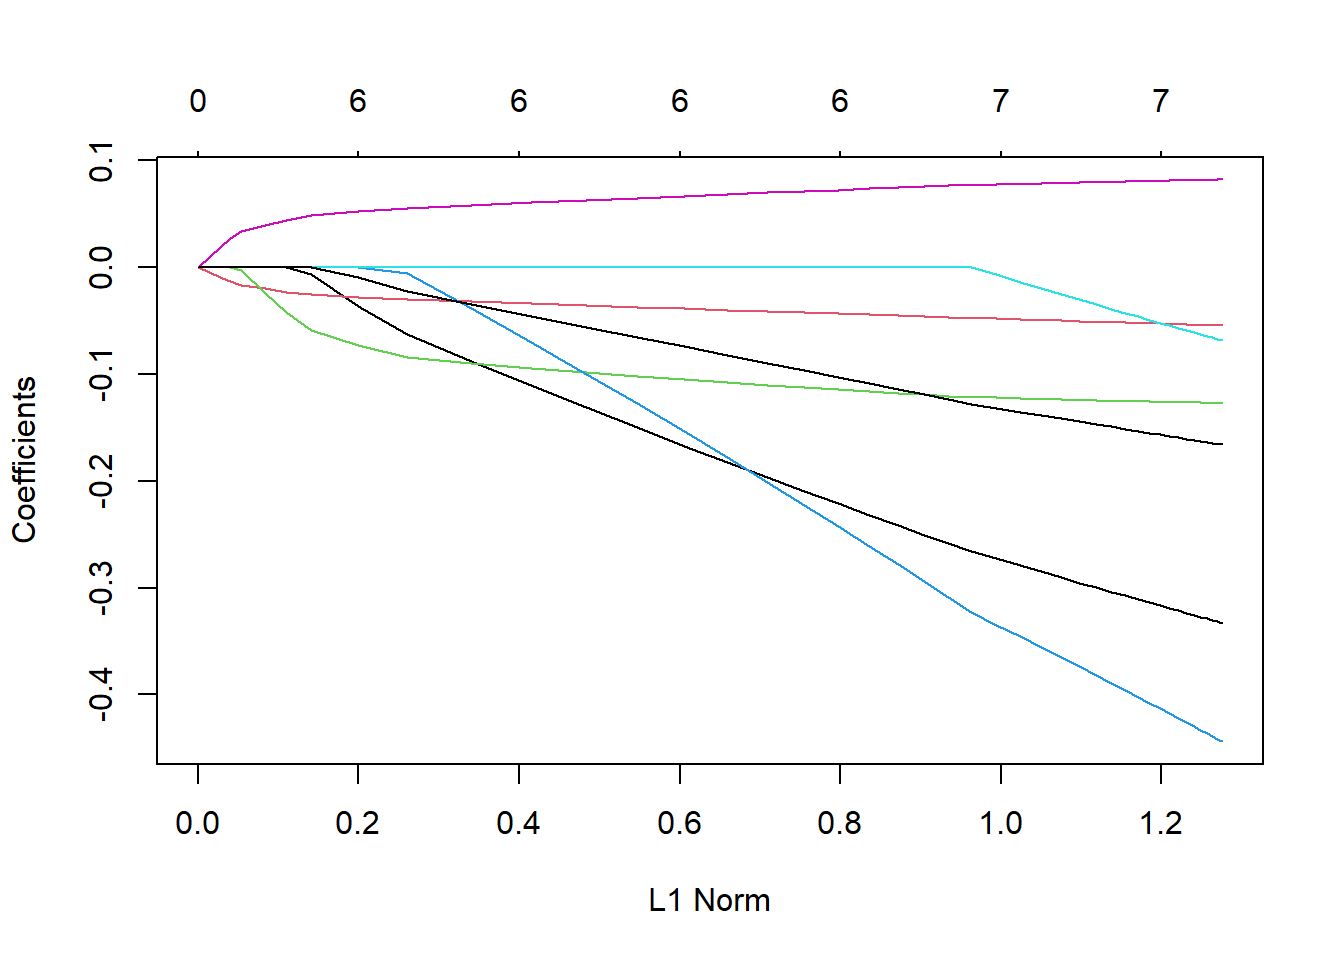
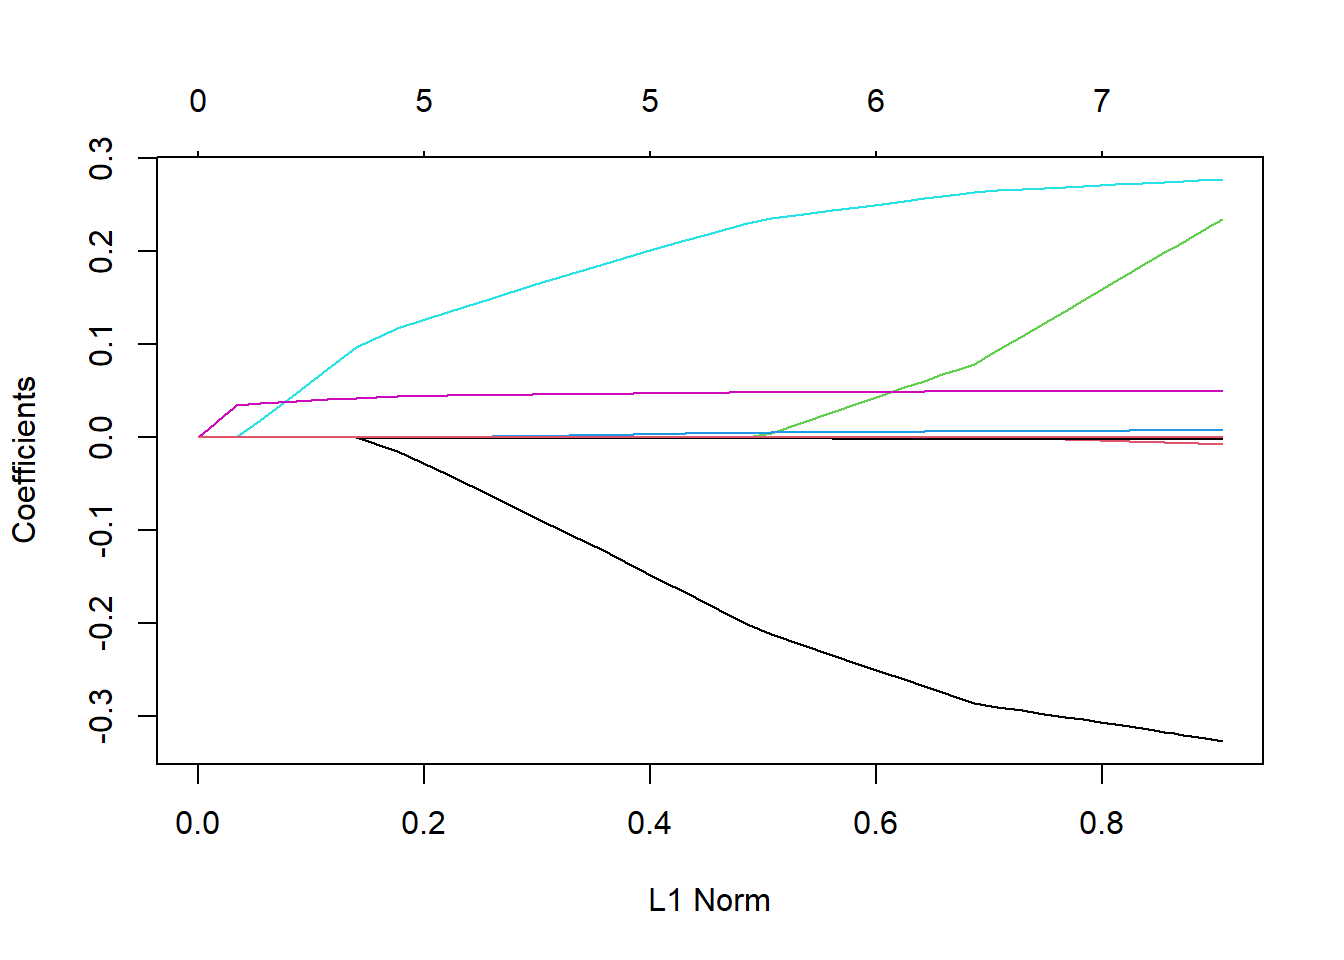
Extra revisions

diff --git a/docs/extras.html b/docs/extras.html
@@ -187,43 +187,46 @@ code span.wa { color: #60a0b0; font-weight: bold; font-style: italic; } /* Warni
 <div class="sourceCode" id="cb1"><pre class="sourceCode r"><code class="sourceCode r"><span id="cb1-1"><a href="extras.html#cb1-1" aria-hidden="true" tabindex="-1"></a><span class="fu">library</span>(glmnet)</span></code></pre></div>
 <pre><code>## Loading required package: Matrix</code></pre>
 <pre><code>## Loaded glmnet 4.1-4</code></pre>
-<div class="sourceCode" id="cb4"><pre class="sourceCode r"><code class="sourceCode r"><span id="cb4-1"><a href="extras.html#cb4-1" aria-hidden="true" tabindex="-1"></a>x<span class="ot">=</span>recid <span class="sc">%&gt;%</span> <span class="fu">select</span>(fin,age,wexp,mar,paro,prio,educ)</span>
-<span id="cb4-2"><a href="extras.html#cb4-2" aria-hidden="true" tabindex="-1"></a>y<span class="ot">=</span><span class="fu">Surv</span>(<span class="at">time=</span>recid<span class="sc">$</span>week,<span class="at">event=</span>recid<span class="sc">$</span>arrest)</span>
+<div class="sourceCode" id="cb4"><pre class="sourceCode r"><code class="sourceCode r"><span id="cb4-1"><a href="extras.html#cb4-1" aria-hidden="true" tabindex="-1"></a>x<span class="ot">=</span>GBSG2 <span class="sc">%&gt;%</span> <span class="fu">select</span>(horTh,age,menostat,tsize, tgrade, pnodes, progrec, estrec)</span>
+<span id="cb4-2"><a href="extras.html#cb4-2" aria-hidden="true" tabindex="-1"></a>y<span class="ot">=</span><span class="fu">Surv</span>(<span class="at">time=</span>GBSG2<span class="sc">$</span>time,<span class="at">event=</span>GBSG2<span class="sc">$</span>cens)</span>
 <span id="cb4-3"><a href="extras.html#cb4-3" aria-hidden="true" tabindex="-1"></a>model1<span class="ot">&lt;-</span><span class="fu">glmnet</span>(x,y,<span class="at">family=</span><span class="st">&quot;cox&quot;</span>)</span>
 <span id="cb4-4"><a href="extras.html#cb4-4" aria-hidden="true" tabindex="-1"></a><span class="fu">plot</span>(model1)</span></code></pre></div>
 <p><img src="bookdownproj_files/figure-html/unnamed-chunk-1-1.png" width="672" /></p>
-<div class="sourceCode" id="cb5"><pre class="sourceCode r"><code class="sourceCode r"><span id="cb5-1"><a href="extras.html#cb5-1" aria-hidden="true" tabindex="-1"></a>x<span class="ot">&lt;-</span><span class="fu">as.matrix</span>(x)</span>
-<span id="cb5-2"><a href="extras.html#cb5-2" aria-hidden="true" tabindex="-1"></a><span class="fu">set.seed</span>(<span class="dv">1287</span>)</span>
-<span id="cb5-3"><a href="extras.html#cb5-3" aria-hidden="true" tabindex="-1"></a>cvfit <span class="ot">&lt;-</span> <span class="fu">cv.glmnet</span>(x, y, <span class="at">family =</span> <span class="st">&quot;cox&quot;</span>, <span class="at">type.measure =</span> <span class="st">&quot;C&quot;</span>)</span>
-<span id="cb5-4"><a href="extras.html#cb5-4" aria-hidden="true" tabindex="-1"></a><span class="fu">plot</span>(cvfit)</span>
-<span id="cb5-5"><a href="extras.html#cb5-5" aria-hidden="true" tabindex="-1"></a></span>
+<div class="sourceCode" id="cb5"><pre class="sourceCode r"><code class="sourceCode r"><span id="cb5-1"><a href="extras.html#cb5-1" aria-hidden="true" tabindex="-1"></a>x1<span class="ot">=</span>x <span class="sc">%&gt;%</span> <span class="fu">mutate</span>(<span class="at">horTh2=</span><span class="fu">if_else</span>(horTh<span class="sc">==</span><span class="st">&quot;no&quot;</span>,<span class="dv">0</span>,<span class="dv">1</span>),<span class="at">menostat2=</span><span class="fu">if_else</span>(menostat<span class="sc">==</span><span class="st">&quot;Pre&quot;</span>,<span class="dv">0</span>,<span class="dv">1</span>),<span class="at">tgrade2=</span><span class="fu">if_else</span>(tgrade<span class="sc">==</span><span class="st">&quot;I&quot;</span>,<span class="dv">1</span>,<span class="dv">0</span>),<span class="at">tgrade3=</span><span class="fu">if_else</span>(tgrade<span class="sc">==</span><span class="st">&quot;II&quot;</span>,<span class="dv">1</span>,<span class="dv">0</span>)) <span class="sc">%&gt;%</span> <span class="fu">select</span>(horTh2,age,menostat2,tgrade2,tgrade3,tsize,pnodes,progrec,estrec)</span>
+<span id="cb5-2"><a href="extras.html#cb5-2" aria-hidden="true" tabindex="-1"></a>x1<span class="ot">&lt;-</span><span class="fu">as.matrix</span>(x1)</span>
+<span id="cb5-3"><a href="extras.html#cb5-3" aria-hidden="true" tabindex="-1"></a><span class="fu">set.seed</span>(<span class="dv">1287</span>)</span>
+<span id="cb5-4"><a href="extras.html#cb5-4" aria-hidden="true" tabindex="-1"></a>cvfit <span class="ot">&lt;-</span> <span class="fu">cv.glmnet</span>(x1, y, <span class="at">family =</span> <span class="st">&quot;cox&quot;</span>, <span class="at">type.measure =</span> <span class="st">&quot;C&quot;</span>)</span>
+<span id="cb5-5"><a href="extras.html#cb5-5" aria-hidden="true" tabindex="-1"></a><span class="fu">plot</span>(cvfit)</span>
 <span id="cb5-6"><a href="extras.html#cb5-6" aria-hidden="true" tabindex="-1"></a></span>
-<span id="cb5-7"><a href="extras.html#cb5-7" aria-hidden="true" tabindex="-1"></a><span class="fu">plot</span>(cvfit)</span></code></pre></div>
+<span id="cb5-7"><a href="extras.html#cb5-7" aria-hidden="true" tabindex="-1"></a></span>
+<span id="cb5-8"><a href="extras.html#cb5-8" aria-hidden="true" tabindex="-1"></a><span class="fu">plot</span>(cvfit)</span></code></pre></div>
 <p><img src="bookdownproj_files/figure-html/unnamed-chunk-1-2.png" width="672" /></p>
 <div class="sourceCode" id="cb6"><pre class="sourceCode r"><code class="sourceCode r"><span id="cb6-1"><a href="extras.html#cb6-1" aria-hidden="true" tabindex="-1"></a>cvfit<span class="sc">$</span>lambda.min</span></code></pre></div>
-<pre><code>## [1] 0.003406689</code></pre>
+<pre><code>## [1] 0.02673542</code></pre>
 <div class="sourceCode" id="cb8"><pre class="sourceCode r"><code class="sourceCode r"><span id="cb8-1"><a href="extras.html#cb8-1" aria-hidden="true" tabindex="-1"></a>cvfit<span class="sc">$</span>lambda<span class="fl">.1</span>se</span></code></pre></div>
-<pre><code>## [1] 0.03826816</code></pre>
-<div class="sourceCode" id="cb10"><pre class="sourceCode r"><code class="sourceCode r"><span id="cb10-1"><a href="extras.html#cb10-1" aria-hidden="true" tabindex="-1"></a><span class="fu">coef</span>(model1,<span class="at">s=</span><span class="fl">0.0034</span>)</span></code></pre></div>
-<pre><code>## 7 x 1 sparse Matrix of class &quot;dgCMatrix&quot;
-##                1
-## fin  -0.31919982
-## age  -0.05311820
-## wexp -0.12614240
-## mar  -0.41791871
-## paro -0.05465912
-## prio  0.08103017
-## educ -0.15813778</code></pre>
-<div class="sourceCode" id="cb12"><pre class="sourceCode r"><code class="sourceCode r"><span id="cb12-1"><a href="extras.html#cb12-1" aria-hidden="true" tabindex="-1"></a><span class="fu">coef</span>(model1,<span class="at">s=</span><span class="fl">0.04</span>)</span></code></pre></div>
-<pre><code>## 7 x 1 sparse Matrix of class &quot;dgCMatrix&quot;
-##                 1
-## fin  -0.050585250
-## age  -0.029250304
-## wexp -0.079213286
-## mar  -0.002845972
-## paro  .          
-## prio  0.053625710
-## educ -0.016574761</code></pre>
+<pre><code>## [1] 0.09834302</code></pre>
+<div class="sourceCode" id="cb10"><pre class="sourceCode r"><code class="sourceCode r"><span id="cb10-1"><a href="extras.html#cb10-1" aria-hidden="true" tabindex="-1"></a><span class="fu">coef</span>(model1,<span class="at">s=</span><span class="fl">0.03</span>)</span></code></pre></div>
+<pre><code>## 8 x 1 sparse Matrix of class &quot;dgCMatrix&quot;
+##                     1
+## horTh    -0.176785737
+## age       .          
+## menostat  .          
+## tsize     0.004002226
+## tgrade    0.216889004
+## pnodes    0.047722334
+## progrec  -0.001325963
+## estrec    .</code></pre>
+<div class="sourceCode" id="cb12"><pre class="sourceCode r"><code class="sourceCode r"><span id="cb12-1"><a href="extras.html#cb12-1" aria-hidden="true" tabindex="-1"></a><span class="fu">coef</span>(model1,<span class="at">s=</span><span class="fl">0.1</span>)</span></code></pre></div>
+<pre><code>## 8 x 1 sparse Matrix of class &quot;dgCMatrix&quot;
+##                      1
+## horTh     .           
+## age       .           
+## menostat  .           
+## tsize     .           
+## tgrade    0.0153489911
+## pnodes    0.0362199648
+## progrec  -0.0001341727
+## estrec    .</code></pre>
 <div class="sourceCode" id="cb14"><pre class="sourceCode r"><code class="sourceCode r"><span id="cb14-1"><a href="extras.html#cb14-1" aria-hidden="true" tabindex="-1"></a><span class="do">### Uses Breslow for ties (not able to do Efron...yet)</span></span></code></pre></div>
 <p>Can also do repeated events and stratified analysis, see <a href="https://glmnet.stanford.edu/articles/Coxnet.html" class="uri">https://glmnet.stanford.edu/articles/Coxnet.html</a>.</p>
 </div>
@@ -234,11 +237,8 @@ code span.wa { color: #60a0b0; font-weight: bold; font-style: italic; } /* Warni
 <pre><code>## Loading required package: grid</code></pre>
 <pre><code>## Loading required package: libcoin</code></pre>
 <pre><code>## Loading required package: mvtnorm</code></pre>
-<div class="sourceCode" id="cb19"><pre class="sourceCode r"><code class="sourceCode r"><span id="cb19-1"><a href="extras.html#cb19-1" aria-hidden="true" tabindex="-1"></a><span class="fu">data</span>(<span class="st">&quot;GBSG2&quot;</span>, <span class="at">package =</span> <span class="st">&quot;TH.data&quot;</span>)</span>
-<span id="cb19-2"><a href="extras.html#cb19-2" aria-hidden="true" tabindex="-1"></a></span>
-<span id="cb19-3"><a href="extras.html#cb19-3" aria-hidden="true" tabindex="-1"></a></span>
-<span id="cb19-4"><a href="extras.html#cb19-4" aria-hidden="true" tabindex="-1"></a>tree.surv<span class="ot">&lt;-</span> <span class="fu">ctree</span>(<span class="fu">Surv</span>(time,cens) <span class="sc">~</span> . ,<span class="at">data=</span>GBSG2)</span>
-<span id="cb19-5"><a href="extras.html#cb19-5" aria-hidden="true" tabindex="-1"></a>tree.surv</span></code></pre></div>
+<div class="sourceCode" id="cb19"><pre class="sourceCode r"><code class="sourceCode r"><span id="cb19-1"><a href="extras.html#cb19-1" aria-hidden="true" tabindex="-1"></a>tree.surv<span class="ot">&lt;-</span> <span class="fu">ctree</span>(<span class="fu">Surv</span>(time,cens) <span class="sc">~</span> . ,<span class="at">data=</span>GBSG2)</span>
+<span id="cb19-2"><a href="extras.html#cb19-2" aria-hidden="true" tabindex="-1"></a>tree.surv</span></code></pre></div>
 <pre><code>## 
 ## Model formula:
 ## Surv(time, cens) ~ horTh + age + menostat + tsize + tgrade + 
@@ -295,9 +295,9 @@ code span.wa { color: #60a0b0; font-weight: bold; font-style: italic; } /* Warni
 <p><img src="bookdownproj_files/figure-html/unnamed-chunk-3-1.png" width="672" /></p>
 <div class="sourceCode" id="cb38"><pre class="sourceCode r"><code class="sourceCode r"><span id="cb38-1"><a href="extras.html#cb38-1" aria-hidden="true" tabindex="-1"></a><span class="fu">print</span>(surv.rf<span class="sc">$</span>importance)</span></code></pre></div>
 <pre><code>##        horTh          age     menostat        tsize       tgrade       pnodes 
-## 0.0132128712 0.1078447263 0.0007029462 0.0271485393 0.0154404019 0.1647260566 
+## 1.419462e-02 1.115572e-01 6.922425e-06 2.834231e-02 1.443355e-02 1.577370e-01 
 ##      progrec       estrec 
-## 0.0820080064 0.0294435264</code></pre>
+## 8.544829e-02 3.328314e-02</code></pre>
 <p>For more information, see <a href="https://www.randomforestsrc.org/articles/survival.html" class="uri">https://www.randomforestsrc.org/articles/survival.html</a>, <a href="https://www.randomforestsrc.org/index.html" class="uri">https://www.randomforestsrc.org/index.html</a> for the Survival Random Forest or <a href="https://cran.microsoft.com/snapshot/2014-12-19/web/packages/ggRandomForests/vignettes/randomForestSurvival.pdf" class="uri">https://cran.microsoft.com/snapshot/2014-12-19/web/packages/ggRandomForests/vignettes/randomForestSurvival.pdf</a> for nice visuals using the ggRandomForest package.</p>
 
 </div>
